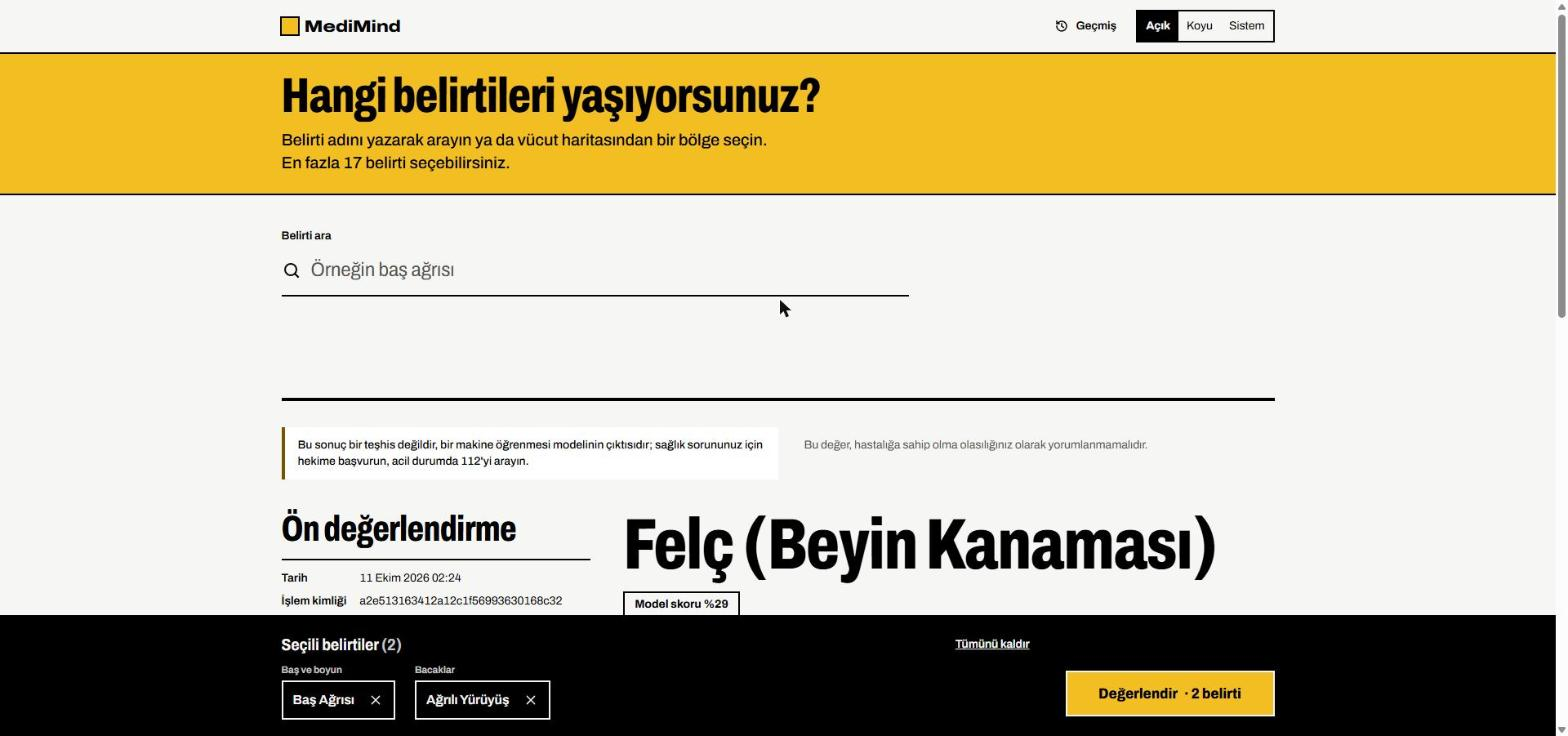
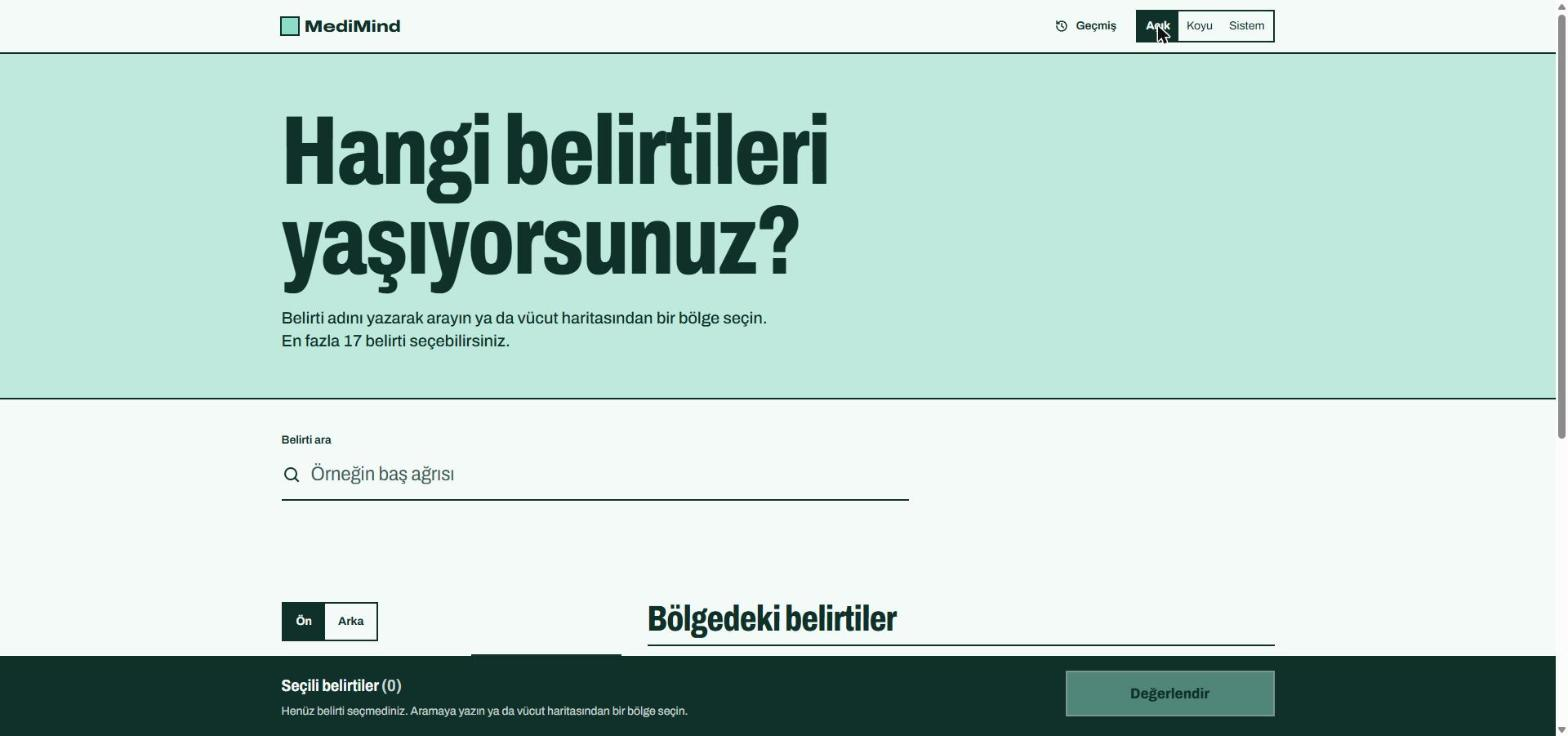
Switch the palette to pastel sea-green tones

diff --git a/frontend/src/styles/tokens.css b/frontend/src/styles/tokens.css
@@ -1,5 +1,5 @@
 /*
- * Colour tokens: black/white ink with one saffron colour block.
+ * Colour tokens: deep forest-teal ink on pale mint paper with one aqua colour family.
  * Values are space-separated RGB channels so Tailwind can apply alpha.
  * Motion tokens mirror src/lib/motion.ts for CSS-only transitions.
  */
@@ -7,20 +7,21 @@
   color-scheme: light;
   --color-paper: rgb(255 255 255);
   --color-print-ink: rgb(0 0 0);
-  --c-bg: 246 246 244;
+  --c-bg: 243 250 247;
   --c-surface: 255 255 255;
-  --c-surface-muted: 232 232 228;
-  --c-text: 0 0 0;
-  --c-text-muted: 82 82 78;
-  --c-border: 212 212 206;
-  --c-border-strong: 112 112 106;
-  --c-accent: 242 190 34;
-  --c-accent-hover: 230 172 10;
-  --c-on-accent: 0 0 0;
-  --c-accent-text: 122 82 0;
-  --c-focus: 0 0 0;
+  --c-surface-muted: 227 243 236;
+  --c-text: 16 48 42;
+  --c-text-muted: 63 97 89;
+  --c-border: 180 214 203;
+  --c-border-strong: 76 125 114;
+  --c-block: 191 233 221;
+  --c-accent: 142 220 200;
+  --c-accent-hover: 117 205 183;
+  --c-on-accent: 16 48 42;
+  --c-accent-text: 11 107 87;
+  --c-focus: 11 92 115;
   --c-error: 179 38 30;
-  --c-uncertainty: 122 82 0;
+  --c-uncertainty: 128 82 12;
 
   --ease-out: cubic-bezier(0.22, 1, 0.36, 1);
   --ease-shutter: cubic-bezier(0.76, 0, 0.24, 1);
@@ -32,20 +33,21 @@
 
 :root[data-theme='dark'] {
   color-scheme: dark;
-  --c-bg: 24 24 22;
-  --c-surface: 34 34 32;
-  --c-surface-muted: 48 48 45;
-  --c-text: 245 245 240;
-  --c-text-muted: 178 178 170;
-  --c-border: 64 64 60;
-  --c-border-strong: 130 130 122;
-  --c-accent: 242 190 34;
-  --c-accent-hover: 250 206 76;
-  --c-on-accent: 0 0 0;
-  --c-accent-text: 242 190 34;
-  --c-focus: 242 190 34;
+  --c-bg: 14 29 26;
+  --c-surface: 22 42 38;
+  --c-surface-muted: 32 58 52;
+  --c-text: 230 245 240;
+  --c-text-muted: 160 196 186;
+  --c-border: 48 78 71;
+  --c-border-strong: 112 158 146;
+  --c-block: 159 227 208;
+  --c-accent: 142 220 200;
+  --c-accent-hover: 169 232 215;
+  --c-on-accent: 16 48 42;
+  --c-accent-text: 142 220 200;
+  --c-focus: 142 220 200;
   --c-error: 255 138 128;
-  --c-uncertainty: 242 190 34;
+  --c-uncertainty: 240 207 138;
 }
 
 :root {
@@ -56,6 +58,7 @@
   --color-text-muted: rgb(var(--c-text-muted));
   --color-border: rgb(var(--c-border));
   --color-border-strong: rgb(var(--c-border-strong));
+  --color-block: rgb(var(--c-block));
   --color-accent: rgb(var(--c-accent));
   --color-accent-hover: rgb(var(--c-accent-hover));
   --color-on-accent: rgb(var(--c-on-accent));

diff --git a/frontend/src/features/assessment/ResultScene.tsx b/frontend/src/features/assessment/ResultScene.tsx
@@ -8,7 +8,7 @@ export function ResultScene({ report }: { report: ReactNode }) {
 }
 
 /**
- * Selection-to-result transition: a saffron curtain covers the new report and
+ * Selection-to-result transition: an aqua curtain covers the new report and
  * withdraws to the right, uncovering it in reading order. Low-power devices
  * get a short fade; reduced motion shows the report at once.
  */
@@ -19,7 +19,7 @@ export function ReportReveal({ children }: { children: ReactNode }) {
       {level === 'full' ? (
         <m.div
           aria-hidden="true"
-          className="pointer-events-none absolute inset-0 z-10 origin-right bg-accent"
+          className="pointer-events-none absolute inset-0 z-10 origin-right bg-block"
           initial={{ scaleX: 1 }}
           animate={{ scaleX: 0 }}
           transition={{ duration: DUR.scene, ease: EASE.shutter, delay: 0.05 }}

diff --git a/frontend/index.html b/frontend/index.html
@@ -8,8 +8,8 @@
       name="description"
       content="Belirtilerinizi seçin, bir makine öğrenmesi modelinin ön değerlendirmesini okunaklı ve yazdırılabilir bir not olarak alın. Teşhis yerine geçmez."
     />
-    <meta name="theme-color" content="#F6F6F4" media="(prefers-color-scheme: light)" />
-    <meta name="theme-color" content="#181816" media="(prefers-color-scheme: dark)" />
+    <meta name="theme-color" content="#F3FAF7" media="(prefers-color-scheme: light)" />
+    <meta name="theme-color" content="#0E1D1A" media="(prefers-color-scheme: dark)" />
     <meta name="color-scheme" content="light dark" />
     <link rel="icon" type="image/svg+xml" href="/favicon.svg" />
     <script>

diff --git a/frontend/src/styles/base.css b/frontend/src/styles/base.css
@@ -98,7 +98,7 @@
     transform: translateY(1px);
   }
 
-  /* Saffron needs the ink border: the fill alone is under 3:1 against the light canvas. */
+  /* The pastel fill needs the ink border: the fill alone is under 3:1 against the light canvas. */
   .btn-primary {
     @apply btn border-2 border-ink bg-accent text-on-accent;
     min-height: 3.5rem;
@@ -171,7 +171,7 @@
     animation: shutter-drop var(--dur-fast) var(--ease-out);
   }
 
-  /* Hover marker: a saffron bar wipes under the row from the left. */
+  /* Hover marker: an aqua bar wipes under the row from the left. */
   .wipe-hover {
     position: relative;
     isolation: isolate;

diff --git a/frontend/src/features/assessment/FocusStage.tsx b/frontend/src/features/assessment/FocusStage.tsx
@@ -166,7 +166,7 @@ export function FocusStage({ historyOpen, onCloseHistory, onOpenHistory }: Focus
     <>
       <main id="main" className="screen-only w-full">
         <section aria-labelledby="page-title">
-          <div className="border-b-2 border-ink bg-accent text-on-accent">
+          <div className="border-b-2 border-ink bg-block text-on-accent">
             <div
               className={
                 showReport

diff --git a/frontend/tailwind.config.ts b/frontend/tailwind.config.ts
@@ -18,6 +18,7 @@ export default {
       line: token('border'),
       'line-strong': token('border-strong'),
       uncertainty: token('uncertainty'),
+      block: token('block'),
       accent: token('accent'),
       'accent-hover': token('accent-hover'),
       'accent-text': token('accent-text'),

diff --git a/README.tr.md b/README.tr.md
@@ -22,7 +22,7 @@ Backend yeni API ve veri yapısını kullanır; frontend yeniden yazımı devam 
 - Skor politikası: `Model skoru %42` biçimi kullanılır; %1 altı `<%1` olarak gösterilir. Eşik rozeti veya renkli güven kodu kullanılmaz; API'deki `confidence_label` arayüzde gösterilmez. Sabit açıklama: “Bu değer, hastalığa sahip olma olasılığınız olarak yorumlanmamalıdır.”
 - Yazdırılabilir rapor: tarayıcının yazdırma/PDF olarak kaydetme işlevi, `@media print`, A4 ve 15 mm kenar boşluğu kullanılır. Tarih, işlem kimlikleri, belirtiler, cetvel, açıklama, önlemler ve uyarı raporda yer alır.
 - Anonim geçmiş: tarayıcıda saklanan UUID, `X-Client-Id` ile sunucuya gönderilir; değerlendirmeler SQLite'ta bu kimliğe göre listelenir ve silinir. Bu kimlik bir hesap veya kimlik doğrulama mekanizması değildir.
-- Açık, karanlık ve sistem teması; siyah-beyaz mürekkep ve tek bir safran renk bloğu, Archivo yazı ailesi (başlıklarda dar kesim, gövde metninde normal genişlik).
+- Açık, karanlık ve sistem teması; koyu orman-petrol mürekkep, açık nane zemin ve tek bir pastel su yeşili renk ailesi, Archivo yazı ailesi (başlıklarda dar kesim, gövde metninde normal genişlik).
 - Erişilebilirlik: klavye ile kullanılabilen arama ve bölge filtreleri, görünür odak, sonuç başlığına odak aktarımı, ARIA durum bildirimleri ve azaltılmış hareket tercihi. İki temada WCAG AA kontrast hedeflenir.
 - Belirtiler değiştiğinde raporun güncel olmadığını belirten uyarı; belirti ağırlığı yalnızca “Teknik ayrıntılar” bölümünde açıklamalı düz metin olarak sunulur.
 

diff --git a/README.md b/README.md
@@ -22,7 +22,7 @@ The backend uses the new API and data structure; the frontend rewrite is in prog
 - Score policy: the format `Model skoru` (Model score) `%42` is used; values below 1% are shown as `<%1`. No threshold badge or color-coded confidence system is used; the API's `confidence_label` is not shown in the interface. Fixed explanation: “This value should not be interpreted as your probability of having the disease.”
 - Printable report: the browser's print/save as PDF function uses `@media print`, A4, and 15 mm margins. The report includes the date, request IDs, symptoms, scale, explanation, precautions, and warning.
 - Anonymous history: a UUID stored in the browser is sent to the server via `X-Client-Id`; assessments are listed and deleted in SQLite by this ID. This ID is not an account or an authentication mechanism.
-- Light, dark, and system themes; black-and-white ink with a single saffron colour block, set in Archivo (condensed for headings, normal width for body text).
+- Light, dark, and system themes; deep green-teal ink on a single pastel sea-green colour family, set in Archivo (condensed for headings, normal width for body text).
 - Accessibility: keyboard-operable search and region filters, visible focus, focus transfer to the result heading, ARIA status announcements, and reduced motion preference. WCAG AA contrast is targeted in both themes.
 - A warning that the report is out of date when symptoms change; symptom severity is presented only as plain text with an explanation in the “Teknik ayrıntılar” (Technical details) section.
 
